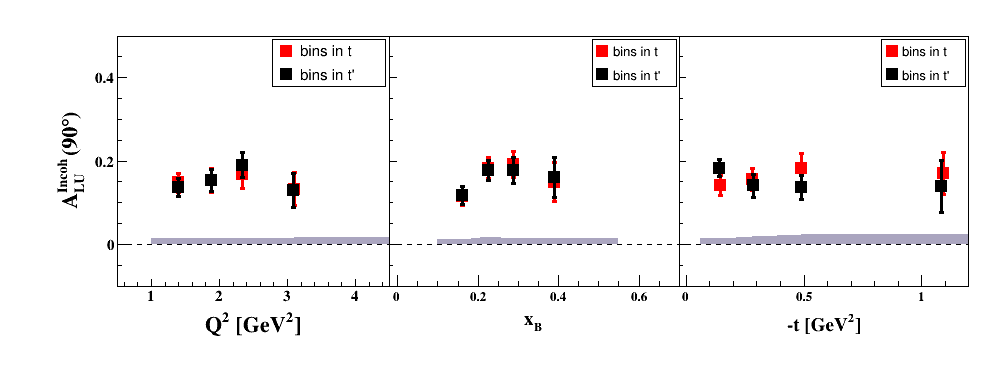
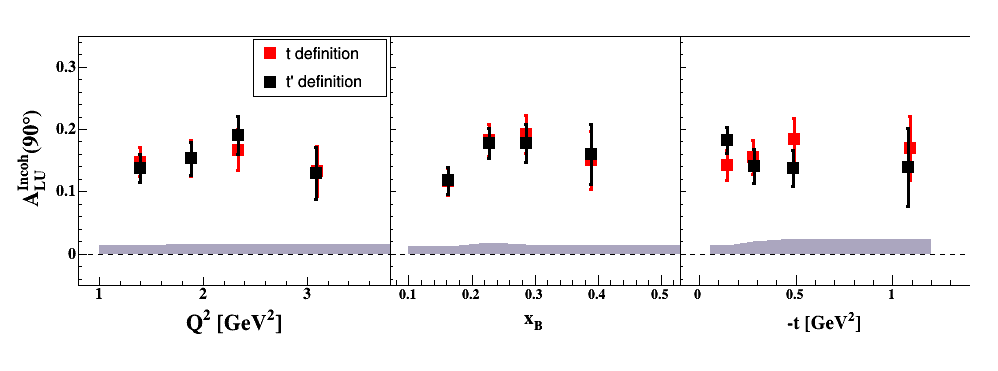
Update figures t comparison

diff --git a/eg6-letters/long-paper/t-tprime_incoh/t_tprime_ALU_90_p_shortscenrario.C b/eg6-letters/long-paper/t-tprime_incoh/t_tprime_ALU_90_p_shortscenrario.C
@@ -20,14 +20,14 @@ void t_tprime_ALU_90_p_shortscenrario()
    Cann_1->SetFillColor(0);
    Cann_1->SetBorderMode(0);
    Cann_1->SetBorderSize(2);
-   Cann_1->SetLeftMargin(0.3012048);
+   Cann_1->SetLeftMargin(0.2012048);
    Cann_1->SetRightMargin(0);
    Cann_1->SetTopMargin(0);
    Cann_1->SetBottomMargin(0.255814);
    Cann_1->SetFrameBorderMode(0);
    Cann_1->SetFrameBorderMode(0);
    
-   TH2F *HALU_p_vs_Q2__1 = new TH2F("HALU_p_vs_Q2__1","",100,0.5,4.5,100,-0.1,0.5);
+   TH2F *HALU_p_vs_Q2__1 = new TH2F("HALU_p_vs_Q2__1","",100,0.8,3.8,100,-0.05,0.35);
    HALU_p_vs_Q2__1->SetStats(0);
 
    Int_t ci;      // for color index setting
@@ -217,7 +217,7 @@ void t_tprime_ALU_90_p_shortscenrario()
    
    graph->Draw("f");
    
-   TLegend *leg = new TLegend(0.7,0.85,0.99,0.99,NULL,"brNDC");
+   TLegend *leg = new TLegend(0.65,0.82,0.99,0.99,NULL,"brNDC");
    leg->SetBorderSize(1);
    leg->SetTextSize(0.05);
    leg->SetLineColor(1);
@@ -225,7 +225,7 @@ void t_tprime_ALU_90_p_shortscenrario()
    leg->SetLineWidth(1);
    leg->SetFillColor(0);
    leg->SetFillStyle(1001);
-   TLegendEntry *entry=leg->AddEntry("Graph0","bins in t","P");
+   TLegendEntry *entry=leg->AddEntry("Graph0","t definition","P");
    entry->SetLineColor(1);
    entry->SetLineStyle(1);
    entry->SetLineWidth(1);
@@ -235,7 +235,7 @@ void t_tprime_ALU_90_p_shortscenrario()
    entry->SetMarkerStyle(21);
    entry->SetMarkerSize(1.5);
    entry->SetTextFont(42);
-   entry=leg->AddEntry("Graph1","bins in t'","P");
+   entry=leg->AddEntry("Graph1","t' definition","P");
    entry->SetLineColor(1);
    entry->SetLineStyle(1);
    entry->SetLineWidth(1);
@@ -244,7 +244,7 @@ void t_tprime_ALU_90_p_shortscenrario()
    entry->SetMarkerSize(1.5);
    entry->SetTextFont(42);
    leg->Draw();
-   TLine *line = new TLine(0.5,0,4.5,0);
+   TLine *line = new TLine(0.8,0,3.8,0);
    line->SetLineStyle(7);
    line->Draw();
    Cann_1->Modified();
@@ -265,7 +265,7 @@ void t_tprime_ALU_90_p_shortscenrario()
    Cann_2->SetFrameBorderMode(0);
    Cann_2->SetFrameBorderMode(0);
    
-   TH2F *HALU_p_vs_x__2 = new TH2F("HALU_p_vs_x__2","",100,-0.02,0.7,100,-0.1,0.5);
+   TH2F *HALU_p_vs_x__2 = new TH2F("HALU_p_vs_x__2","",100,0.07,0.53,100,-0.05,0.35);
    HALU_p_vs_x__2->SetStats(0);
 
    ci = TColor::GetColor("#000099");
@@ -452,37 +452,10 @@ void t_tprime_ALU_90_p_shortscenrario()
    graph->SetHistogram(Graph_Graph2);
    
    graph->Draw("f");
-   line = new TLine(0,0,0.7,0);
+   line = new TLine(0.07,0,0.53,0);
    line->SetLineStyle(7);
    line->Draw();
    
-   leg = new TLegend(0.7,0.85,0.99,0.99,NULL,"brNDC");
-   leg->SetBorderSize(1);
-   leg->SetTextSize(0.05);
-   leg->SetLineColor(1);
-   leg->SetLineStyle(1);
-   leg->SetLineWidth(1);
-   leg->SetFillColor(0);
-   leg->SetFillStyle(1001);
-   entry=leg->AddEntry("Graph0","bins in t","P");
-   entry->SetLineColor(1);
-   entry->SetLineStyle(1);
-   entry->SetLineWidth(1);
-
-   ci = TColor::GetColor("#ff0000");
-   entry->SetMarkerColor(ci);
-   entry->SetMarkerStyle(21);
-   entry->SetMarkerSize(1.5);
-   entry->SetTextFont(42);
-   entry=leg->AddEntry("Graph0","bins in t'","P");
-   entry->SetLineColor(1);
-   entry->SetLineStyle(1);
-   entry->SetLineWidth(1);
-   entry->SetMarkerColor(1);
-   entry->SetMarkerStyle(21);
-   entry->SetMarkerSize(1.5);
-   entry->SetTextFont(42);
-   leg->Draw();
    Cann_2->Modified();
    Cann->cd();
   
@@ -501,7 +474,7 @@ void t_tprime_ALU_90_p_shortscenrario()
    Cann_3->SetFrameBorderMode(0);
    Cann_3->SetFrameBorderMode(0);
    
-   TH2F *HALU_p_vs_t__3 = new TH2F("HALU_p_vs_t__3","",100,-0.03,1.2,100,-0.1,0.5);
+   TH2F *HALU_p_vs_t__3 = new TH2F("HALU_p_vs_t__3","",100,-0.1,1.4,100,-0.05,0.35);
    HALU_p_vs_t__3->SetStats(0);
 
    ci = TColor::GetColor("#000099");
@@ -688,37 +661,10 @@ void t_tprime_ALU_90_p_shortscenrario()
    graph->SetHistogram(Graph_Graph3);
    
    graph->Draw("f");
-   line = new TLine(0,0,1.2,0);
+   line = new TLine(-0.1,0,1.4,0);
    line->SetLineStyle(7);
    line->Draw();
    
-   leg = new TLegend(0.7,0.85,0.99,0.99,NULL,"brNDC");
-   leg->SetBorderSize(1);
-   leg->SetTextSize(0.05);
-   leg->SetLineColor(1);
-   leg->SetLineStyle(1);
-   leg->SetLineWidth(1);
-   leg->SetFillColor(0);
-   leg->SetFillStyle(1001);
-   entry=leg->AddEntry("Graph0","bins in t","P");
-   entry->SetLineColor(1);
-   entry->SetLineStyle(1);
-   entry->SetLineWidth(1);
-
-   ci = TColor::GetColor("#ff0000");
-   entry->SetMarkerColor(ci);
-   entry->SetMarkerStyle(21);
-   entry->SetMarkerSize(1.5);
-   entry->SetTextFont(42);
-   entry=leg->AddEntry("Graph0","bins in t'","P");
-   entry->SetLineColor(1);
-   entry->SetLineStyle(1);
-   entry->SetLineWidth(1);
-   entry->SetMarkerColor(1);
-   entry->SetMarkerStyle(21);
-   entry->SetMarkerSize(1.5);
-   entry->SetTextFont(42);
-   leg->Draw();
    Cann_3->Modified();
    Cann->cd();
    Cann->Modified();
